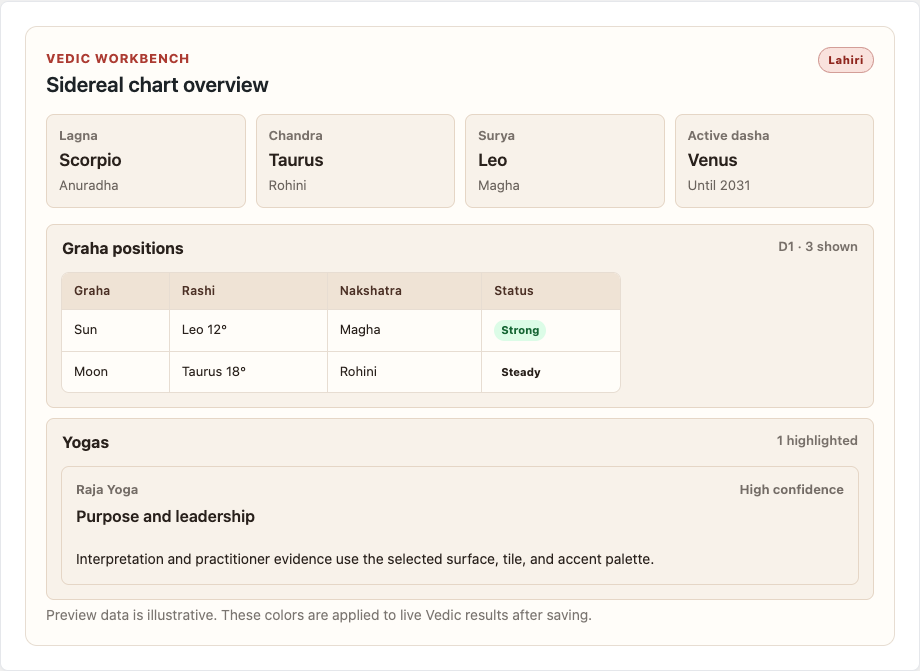
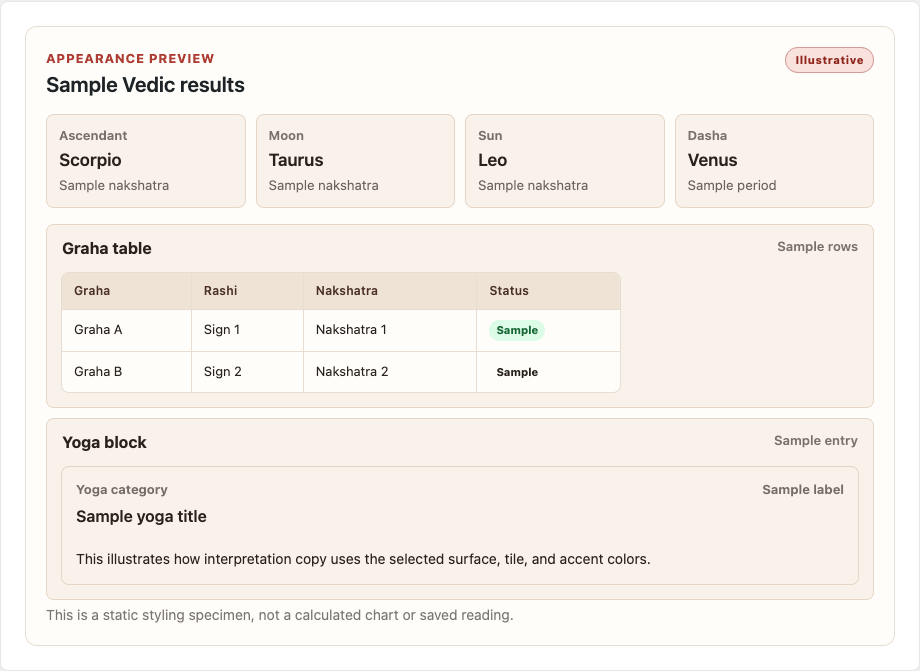
Clarify Vedic appearance preview content (#2)

diff --git a/includes/class-openastro-suite-plugin.php b/includes/class-openastro-suite-plugin.php
@@ -4023,36 +4023,36 @@ JSON
             <section class="openastro-vedic-report">
                 <div class="openastro-vedic-heading">
                     <div>
-                        <span class="openastro-vedic-eyebrow"><?php esc_html_e('Vedic Workbench', 'astrology-suite-freeastroapi'); ?></span>
-                        <h3><?php esc_html_e('Sidereal chart overview', 'astrology-suite-freeastroapi'); ?></h3>
+                        <span class="openastro-vedic-eyebrow"><?php esc_html_e('Appearance preview', 'astrology-suite-freeastroapi'); ?></span>
+                        <h3><?php esc_html_e('Sample Vedic results', 'astrology-suite-freeastroapi'); ?></h3>
                     </div>
-                    <span class="openastro-vedic-badge"><?php esc_html_e('Lahiri', 'astrology-suite-freeastroapi'); ?></span>
+                    <span class="openastro-vedic-badge"><?php esc_html_e('Illustrative', 'astrology-suite-freeastroapi'); ?></span>
                 </div>
                 <div class="openastro-vedic-summary-grid">
-                    <article><span><?php esc_html_e('Lagna', 'astrology-suite-freeastroapi'); ?></span><strong><?php esc_html_e('Scorpio', 'astrology-suite-freeastroapi'); ?></strong><small><?php esc_html_e('Anuradha', 'astrology-suite-freeastroapi'); ?></small></article>
-                    <article><span><?php esc_html_e('Chandra', 'astrology-suite-freeastroapi'); ?></span><strong><?php esc_html_e('Taurus', 'astrology-suite-freeastroapi'); ?></strong><small><?php esc_html_e('Rohini', 'astrology-suite-freeastroapi'); ?></small></article>
-                    <article><span><?php esc_html_e('Surya', 'astrology-suite-freeastroapi'); ?></span><strong><?php esc_html_e('Leo', 'astrology-suite-freeastroapi'); ?></strong><small><?php esc_html_e('Magha', 'astrology-suite-freeastroapi'); ?></small></article>
-                    <article><span><?php esc_html_e('Active dasha', 'astrology-suite-freeastroapi'); ?></span><strong><?php esc_html_e('Venus', 'astrology-suite-freeastroapi'); ?></strong><small><?php esc_html_e('Until 2031', 'astrology-suite-freeastroapi'); ?></small></article>
+                    <article><span><?php esc_html_e('Ascendant', 'astrology-suite-freeastroapi'); ?></span><strong><?php esc_html_e('Scorpio', 'astrology-suite-freeastroapi'); ?></strong><small><?php esc_html_e('Sample nakshatra', 'astrology-suite-freeastroapi'); ?></small></article>
+                    <article><span><?php esc_html_e('Moon', 'astrology-suite-freeastroapi'); ?></span><strong><?php esc_html_e('Taurus', 'astrology-suite-freeastroapi'); ?></strong><small><?php esc_html_e('Sample nakshatra', 'astrology-suite-freeastroapi'); ?></small></article>
+                    <article><span><?php esc_html_e('Sun', 'astrology-suite-freeastroapi'); ?></span><strong><?php esc_html_e('Leo', 'astrology-suite-freeastroapi'); ?></strong><small><?php esc_html_e('Sample nakshatra', 'astrology-suite-freeastroapi'); ?></small></article>
+                    <article><span><?php esc_html_e('Dasha', 'astrology-suite-freeastroapi'); ?></span><strong><?php esc_html_e('Venus', 'astrology-suite-freeastroapi'); ?></strong><small><?php esc_html_e('Sample period', 'astrology-suite-freeastroapi'); ?></small></article>
                 </div>
                 <details class="openastro-vedic-section" open>
-                    <summary><?php esc_html_e('Graha positions', 'astrology-suite-freeastroapi'); ?><span><?php esc_html_e('D1 · 3 shown', 'astrology-suite-freeastroapi'); ?></span></summary>
+                    <summary><?php esc_html_e('Graha table', 'astrology-suite-freeastroapi'); ?><span><?php esc_html_e('Sample rows', 'astrology-suite-freeastroapi'); ?></span></summary>
                     <div class="openastro-vedic-table-wrap">
                         <table>
                             <thead><tr><th><?php esc_html_e('Graha', 'astrology-suite-freeastroapi'); ?></th><th><?php esc_html_e('Rashi', 'astrology-suite-freeastroapi'); ?></th><th><?php esc_html_e('Nakshatra', 'astrology-suite-freeastroapi'); ?></th><th><?php esc_html_e('Status', 'astrology-suite-freeastroapi'); ?></th></tr></thead>
                             <tbody>
-                                <tr><td><?php esc_html_e('Sun', 'astrology-suite-freeastroapi'); ?></td><td><?php esc_html_e('Leo 12°', 'astrology-suite-freeastroapi'); ?></td><td><?php esc_html_e('Magha', 'astrology-suite-freeastroapi'); ?></td><td><span class="openastro-vedic-strength is-sufficient"><?php esc_html_e('Strong', 'astrology-suite-freeastroapi'); ?></span></td></tr>
-                                <tr><td><?php esc_html_e('Moon', 'astrology-suite-freeastroapi'); ?></td><td><?php esc_html_e('Taurus 18°', 'astrology-suite-freeastroapi'); ?></td><td><?php esc_html_e('Rohini', 'astrology-suite-freeastroapi'); ?></td><td><span class="openastro-vedic-strength"><?php esc_html_e('Steady', 'astrology-suite-freeastroapi'); ?></span></td></tr>
+                                <tr><td><?php esc_html_e('Graha A', 'astrology-suite-freeastroapi'); ?></td><td><?php esc_html_e('Sign 1', 'astrology-suite-freeastroapi'); ?></td><td><?php esc_html_e('Nakshatra 1', 'astrology-suite-freeastroapi'); ?></td><td><span class="openastro-vedic-strength is-sufficient"><?php esc_html_e('Sample', 'astrology-suite-freeastroapi'); ?></span></td></tr>
+                                <tr><td><?php esc_html_e('Graha B', 'astrology-suite-freeastroapi'); ?></td><td><?php esc_html_e('Sign 2', 'astrology-suite-freeastroapi'); ?></td><td><?php esc_html_e('Nakshatra 2', 'astrology-suite-freeastroapi'); ?></td><td><span class="openastro-vedic-strength"><?php esc_html_e('Sample', 'astrology-suite-freeastroapi'); ?></span></td></tr>
                             </tbody>
                         </table>
                     </div>
                 </details>
                 <details class="openastro-vedic-section" open>
-                    <summary><?php esc_html_e('Yogas', 'astrology-suite-freeastroapi'); ?><span><?php esc_html_e('1 highlighted', 'astrology-suite-freeastroapi'); ?></span></summary>
+                    <summary><?php esc_html_e('Yoga block', 'astrology-suite-freeastroapi'); ?><span><?php esc_html_e('Sample entry', 'astrology-suite-freeastroapi'); ?></span></summary>
                     <div class="openastro-vedic-yoga-grid">
-                        <article><div><span><?php esc_html_e('Raja Yoga', 'astrology-suite-freeastroapi'); ?></span><em><?php esc_html_e('High confidence', 'astrology-suite-freeastroapi'); ?></em></div><h4><?php esc_html_e('Purpose and leadership', 'astrology-suite-freeastroapi'); ?></h4><p><?php esc_html_e('Interpretation and practitioner evidence use the selected surface, tile, and accent palette.', 'astrology-suite-freeastroapi'); ?></p></article>
+                        <article><div><span><?php esc_html_e('Yoga category', 'astrology-suite-freeastroapi'); ?></span><em><?php esc_html_e('Sample label', 'astrology-suite-freeastroapi'); ?></em></div><h4><?php esc_html_e('Sample yoga title', 'astrology-suite-freeastroapi'); ?></h4><p><?php esc_html_e('This illustrates how interpretation copy uses the selected surface, tile, and accent colors.', 'astrology-suite-freeastroapi'); ?></p></article>
                     </div>
                 </details>
-                <p class="openastro-vedic-disclaimer"><?php esc_html_e('Preview data is illustrative. These colors are applied to live Vedic results after saving.', 'astrology-suite-freeastroapi'); ?></p>
+                <p class="openastro-vedic-disclaimer"><?php esc_html_e('This is a static styling specimen, not a calculated chart or saved reading.', 'astrology-suite-freeastroapi'); ?></p>
             </section>
         </div>
         <p class="description"><?php esc_html_e('The preview updates instantly as you edit the Vedic controls below and does not call FreeAstroAPI.', 'astrology-suite-freeastroapi'); ?></p>

diff --git a/openastro-suite.php b/openastro-suite.php
@@ -2,7 +2,7 @@
 /**
  * Plugin Name: Astrology Suite for FreeAstroAPI
  * Description: Publish Western and Vedic charts, reports, horoscopes, ephemerides, practitioner tools, and an astrology bot through FreeAstroAPI.
- * Version: 0.5.0
+ * Version: 0.5.1
  * Author: omegab
  * License: GPLv2 or later
  * License URI: https://www.gnu.org/licenses/gpl-2.0.html
@@ -15,7 +15,7 @@ if (!defined('ABSPATH')) {
     exit;
 }
 
-define('OPENASTRO_SUITE_VERSION', '0.5.0');
+define('OPENASTRO_SUITE_VERSION', '0.5.1');
 define('OPENASTRO_SUITE_FILE', __FILE__);
 define('OPENASTRO_SUITE_DIR', plugin_dir_path(__FILE__));
 define('OPENASTRO_SUITE_URL', plugin_dir_url(__FILE__));
